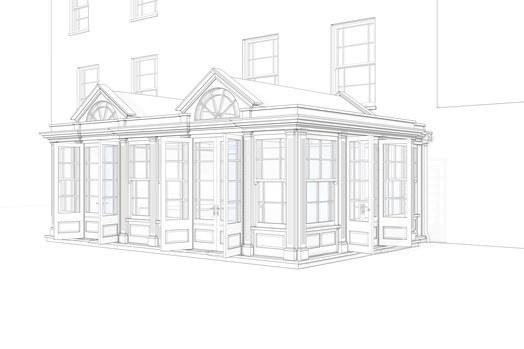
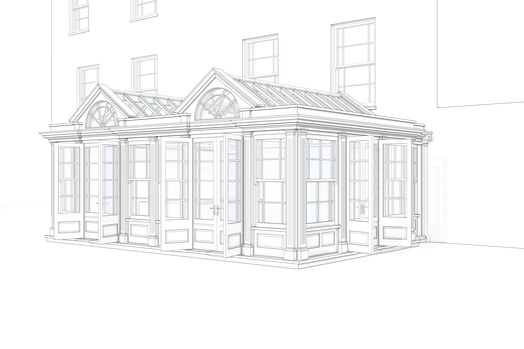
ValeVision3D v2.9.13 - 10-Jul-2026 - Glass Darkening Compounding Fix + Unified Dark Mirror Glass

diff --git a/WebApps/ValeVision3D/02__Src__AppModules/20__System__MaterialsSystem/Na__MaterialsSystem__MaterialSwap.js b/WebApps/ValeVision3D/02__Src__AppModules/20__System__MaterialsSystem/Na__MaterialsSystem__MaterialSwap.js
@@ -562,9 +562,12 @@ import { Na__DataLib__GetPipelineExclusions } from '../01__AppCore/AppCore__Data
         const roughnessOverride = Number.isFinite(options.roughnessOverride) ? options.roughnessOverride : null;
 
         let mirrorMatchedCount = 0;
+        const processedMaterials = new Set();                                 // <-- Ensures each material instance is only darkened once, even when shared across many meshes
 
         const applyToMaterial = (material) => {
             if (!material || material.name !== targetMaterialName) return;
+            if (processedMaterials.has(material)) return;                     // <-- Skip: already processed (shared instance hit by another mesh)
+            processedMaterials.add(material);
 
             material.envMap = envMapTexture;
             material.envMapIntensity = envIntensity;
@@ -616,9 +619,12 @@ import { Na__DataLib__GetPipelineExclusions } from '../01__AppCore/AppCore__Data
         const roughnessOverride    = Number.isFinite(options.roughnessOverride) ? options.roughnessOverride : null;
         const opacityOverride      = Number.isFinite(options.opacityOverride) ? options.opacityOverride : null;
         let   glassMatchedCount    = 0;
+        const processedMaterials  = new Set();                                // <-- Ensures each material instance is only darkened once, even when shared across many meshes (e.g. door leaves sharing one cached glass material)
 
         const applyToMaterial = (material) => {
             if (!material || material.name !== targetMaterialName) return;
+            if (processedMaterials.has(material)) return;                     // <-- Skip: already processed (shared instance hit by another mesh)
+            processedMaterials.add(material);
 
             material.envMap = envMapTexture;
             material.envMapIntensity = envIntensity;

diff --git a/WebApps/ValeVision3D/ValeVision__DEVLOG__.md b/WebApps/ValeVision3D/ValeVision__DEVLOG__.md
@@ -2,6 +2,48 @@
 # =========================================================
 
 # ---------------------------------------------------------
+## ValeVision3D v2.9.13 - 10-Jul-2026 - Glass Darkening Compounding Fix + Unified Dark Mirror Glass
+
+### Overview
+Max Mode door glass and window glass were rendering with visibly different
+tones despite sharing the byte-identical `MAT101__Glass__ClearDefault`
+material out of the GLB exporter (confirmed by direct comparison of the
+exported Doors/Windows GLBs — geometry and material JSON were exonerated).
+Root cause: `Na__MaterialsSystem__ApplyGlassEnvironmentOverrides` darkened
+glass with `material.color.multiplyScalar(brightnessMultiplier)` once per
+**mesh node** rather than once per **material instance**. The Windows GLB
+merges all glazing into a single mesh (darkened once, as intended), but the
+Doors GLB exports one mesh per door leaf, all sharing one cached material
+instance from `Na__MaterialsSystem__ApplyMaterials` — so the same instance
+was darkened 6 times in a row (0.25^6 ≈ ×0.00024), collapsing door glass to
+near-black and making it read as almost fully clear/undimmed next to the
+correctly-darkened (×0.25) window glass.
+
+### Fixed
+- **`Na__MaterialsSystem__MaterialSwap.js`** — `Na__MaterialsSystem__ApplyGlassEnvironmentOverrides`
+  and the sibling `Na__MaterialsSystem__ApplyMirrorEnvironmentOverrides` now
+  track already-processed materials in a `Set` and skip repeat hits, so a
+  shared material instance is only darkened once no matter how many mesh
+  nodes reference it. The mirror function had the identical latent bug,
+  previously inert only because `MirrorBrightnessBoost` is `1.0`.
+
+### Changed
+- **`Na__AppConfig__Main.json`** — with the compounding bug fixed, the old
+  single-multiply `GlassBrightnessMultiplier: 0.25` read as too flat/matte
+  compared to the near-black, reflection-dominated look the (buggy) 6x
+  compounding had been producing on doors — which was the preferred look.
+  Rather than keep that as an accidental side-effect, `GlassBrightnessMultiplier`
+  is now explicitly set to `0.000244140625` (`0.25^6`) so every glass mesh
+  gets that same near-black diffuse tone uniformly: with almost no diffuse
+  colour left, the glossy env-map reflection (`RoughnessOverride: 0.03`,
+  `GlassEnvMapIntensity: 1.0`) dominates, giving the "dark mirror glass"
+  appearance across doors and windows alike.
+
+### Files Changed
+- `02__Src__AppModules/20__System__MaterialsSystem/Na__MaterialsSystem__MaterialSwap.js`
+- `02__Src__AppModules/02__AppData/Na__AppConfig__Main.json`
+
+# ---------------------------------------------------------
 ## ValeVision3D v2.9.12 - 10-Jul-2026 - Multi-Panel Doors and Independent Exterior Double Leaves
 
 ### Overview
